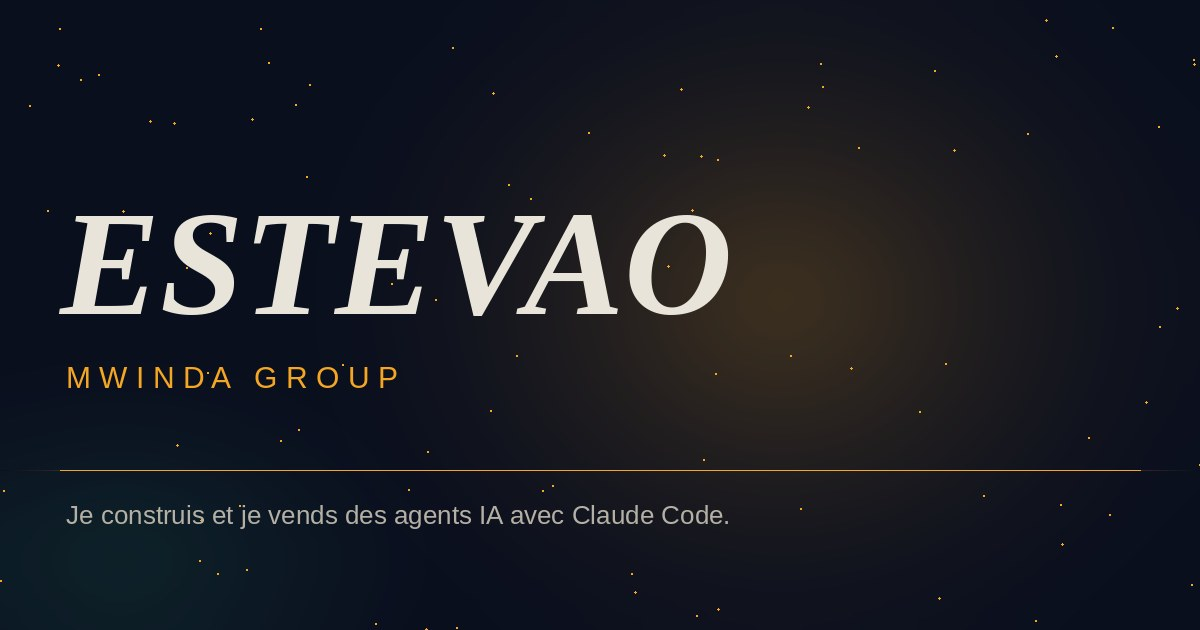
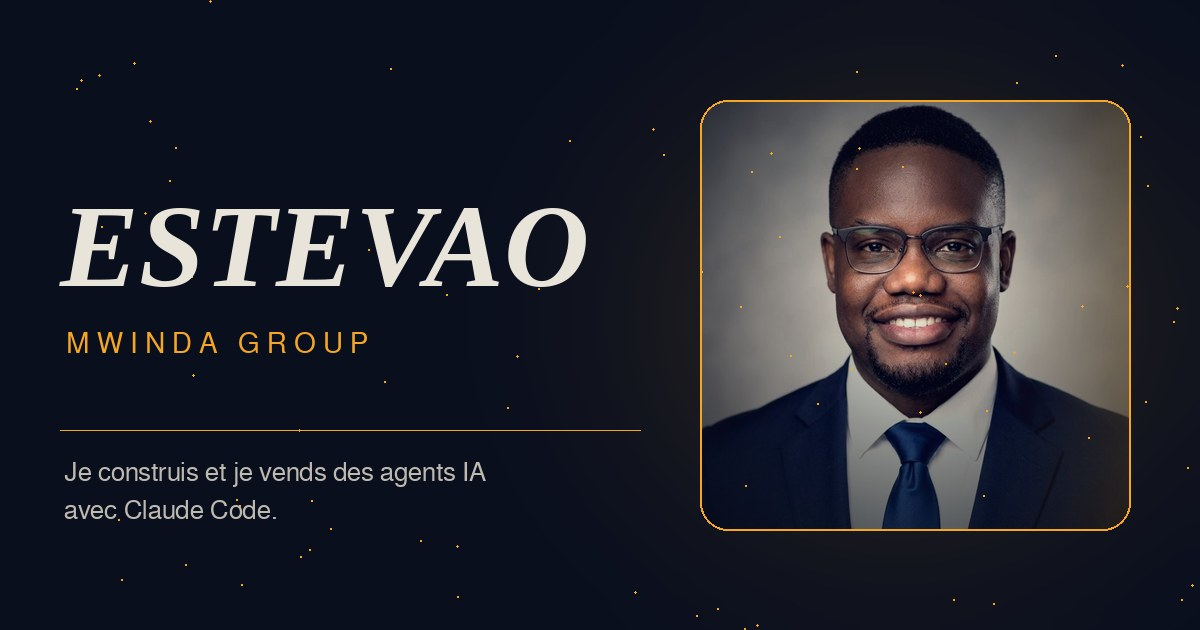
Animate Estevao's portrait as a 3D scroll-driven hero monolith
Grade the uploaded portrait cinematically (night shadows, amber rim,
vignette fading into the site background) and mount it in the hero as a
3D card: rotationY scrubbed by scroll, pointer tilt on desktop, amber
halo and moving sheen, parallax exit into the night. Regenerate the
Open Graph image with the portrait, and shadow the hero subtitle and
tagline for readability over the photo.

Claude-Session: https://claude.ai/code/session_01YRJMze4uArmtiQv4Vbvmec

Changed region(s): [[0.0308, 0.1508, 0.9558, 0.8444], [0.0617, 0.6635, 0.5242, 0.6937], [0.6167, 0.9952, 0.6475, 1.0]]

diff --git a/portfolio/index.html b/portfolio/index.html
@@ -82,11 +82,22 @@
     .hero-vignette{position:absolute;inset:0;background:radial-gradient(ellipse 90% 90% at 50% 50%, transparent 40%, rgba(4,7,15,.85) 100%);pointer-events:none}
     .hero-dust{position:absolute;inset:0;pointer-events:none}
 
+    /* Monolithe 3D — portrait qui tourne au scroll */
+    .hero-3d{position:absolute;inset:0;display:flex;align-items:center;justify-content:center;perspective:1300px;z-index:2}
+    .hero-spin{transform-style:preserve-3d;will-change:transform}
+    .hero-card{position:relative;width:clamp(280px,32vw,440px);aspect-ratio:1;border-radius:10px;overflow:hidden;transform-style:preserve-3d;box-shadow:0 60px 140px -40px rgba(0,0,0,.9),0 0 0 1px rgba(245,166,35,.22),0 0 90px -18px rgba(245,166,35,.35);opacity:0}
+    .hero-card img{width:100%;height:100%;object-fit:cover;display:block}
+    .hero-card .card-sheen{position:absolute;inset:0;background:linear-gradient(115deg,transparent 42%,rgba(245,166,35,.16) 50%,transparent 58%);mix-blend-mode:screen;pointer-events:none}
+    .hero-halo{position:absolute;width:min(72vw,760px);aspect-ratio:1;border-radius:50%;background:radial-gradient(circle,rgba(245,166,35,.16),transparent 62%);filter:blur(8px);pointer-events:none}
+    @media(max-width:700px){.hero-card{width:66vw}}
+    .reduced .hero-card{opacity:1}
+    @media(prefers-reduced-motion:reduce){.hero-card{opacity:1}}
+
     .hero-type{position:absolute;inset:0;display:flex;flex-direction:column;align-items:center;justify-content:center;pointer-events:none;z-index:3}
     .hero-name{font-family:var(--display);font-weight:900;font-size:clamp(4rem,16vw,15rem);line-height:.9;letter-spacing:.02em;display:flex}
     .hero-name span{opacity:0;transform:translateY(40%) rotateX(60deg);display:inline-block;text-shadow:0 0 60px rgba(245,166,35,.25)}
-    .hero-sub{margin-top:1.6rem;font-size:clamp(.65rem,1.4vw,.9rem);letter-spacing:.85em;text-transform:uppercase;color:var(--amber);opacity:0;text-indent:.85em}
-    .hero-tagline{margin-top:2.2rem;font-size:clamp(.95rem,2vw,1.3rem);color:var(--ink-dim);opacity:0;font-weight:300;max-width:34ch;text-align:center;line-height:1.6}
+    .hero-sub{margin-top:1.6rem;font-size:clamp(.65rem,1.4vw,.9rem);letter-spacing:.85em;text-transform:uppercase;color:var(--amber);opacity:0;text-indent:.85em;text-shadow:0 2px 26px rgba(4,7,15,.95),0 0 8px rgba(4,7,15,.7)}
+    .hero-tagline{margin-top:2.2rem;font-size:clamp(.95rem,2vw,1.3rem);color:var(--ink);opacity:0;font-weight:300;max-width:34ch;text-align:center;line-height:1.6;text-shadow:0 2px 26px rgba(4,7,15,.95),0 0 8px rgba(4,7,15,.7)}
     .hero-tagline em{color:var(--ink);font-style:normal;border-bottom:1px solid var(--amber-line)}
     .hero-scrollcue{position:absolute;bottom:2.2rem;left:50%;transform:translateX(-50%);z-index:3;display:flex;flex-direction:column;align-items:center;gap:.8rem;color:var(--ink-dim);font-size:.6rem;letter-spacing:.4em;text-transform:uppercase}
     .hero-scrollcue .line{width:1px;height:56px;background:linear-gradient(var(--amber),transparent);animation:cue 2.2s ease infinite}
@@ -223,6 +234,17 @@
       <div class="hero-fallback"></div>
       <canvas id="heroCanvas"></canvas>
       <canvas class="hero-dust" id="dustCanvas" aria-hidden="true"></canvas>
+
+      <div class="hero-3d" id="hero3d">
+        <div class="hero-halo"></div>
+        <div class="hero-spin" id="heroSpin">
+          <div class="hero-card" id="heroCard">
+            <img src="assets/estevao-graded.jpg" alt="Estevao, fondateur de Mwinda Group — portrait en lumière ambre" />
+            <div class="card-sheen"></div>
+          </div>
+        </div>
+      </div>
+
       <div class="hero-vignette"></div>
 
       <div class="hero-type">
@@ -620,11 +642,29 @@
       heroTl.fromTo('.hero-scrollcue',{opacity:1},{opacity:0,duration:.6},.8);
       heroTl.fromTo('.hero-type',{yPercent:0,opacity:1},{yPercent:-18,opacity:0,duration:2.6,ease:'power2.in'},7.4);
 
+      // Monolithe 3D : le portrait tourne avec le scroll puis recule dans la nuit
+      heroTl.fromTo('#heroSpin',{rotationY:-26,rotationX:2},{rotationY:26,rotationX:-2,ease:'none',duration:10},0);
+      heroTl.fromTo('#heroCard',{scale:1},{scale:.92,ease:'none',duration:10},0);
+      heroTl.fromTo('#hero3d',{opacity:1,z:0},{opacity:0,z:-260,duration:2.4,ease:'power2.in'},7.5);
+      heroTl.fromTo('.card-sheen',{xPercent:-70},{xPercent:70,ease:'none',duration:10},0);
+
       // Chargement : ESTEVAO se compose lettre par lettre, puis sous-titre et tagline
       gsap.set('#heroName span',{opacity:0,y:'40%',rotateX:60});
+      gsap.to('#heroCard',{opacity:1,duration:1.6,ease:'power2.out',delay:.7});
+      gsap.from('#heroCard',{y:60,scale:.9,duration:1.6,ease:'power3.out',delay:.7});
       gsap.to('#heroName span',{opacity:1,y:'0%',rotateX:0,stagger:.14,duration:1.3,ease:'power3.out',delay:1.15});
       gsap.to('#heroSub',{opacity:1,duration:1,delay:2.4});
       gsap.to('#heroTagline',{opacity:1,duration:1,delay:2.8});
+
+      // Inclinaison à la souris (desktop) — sur la carte, indépendante du spin scrollé
+      if(matchMedia('(pointer:fine)').matches){
+        const qx=gsap.quickTo('#heroCard','rotationX',{duration:.7,ease:'power2.out'});
+        const qy=gsap.quickTo('#heroCard','rotationY',{duration:.7,ease:'power2.out'});
+        document.getElementById('heroStage').addEventListener('pointermove',e=>{
+          qy(((e.clientX/innerWidth)-.5)*10);
+          qx(((e.clientY/innerHeight)-.5)*-8);
+        });
+      }
 
       // Manifesto : mots qui s'allument
       window.initManifestoTrigger = function(){

diff --git a/portfolio/assets/README.md b/portfolio/assets/README.md
@@ -1,5 +1,11 @@
 # Pipeline d'assets — Portfolio Estevao / Mwinda
 
+> **Portrait 3D actuel** : en attendant les clips, le hero anime la photo
+> d'Estevao (`estevao-graded.jpg`, étalonnée nuit/ambre) dans un monolithe 3D
+> qui tourne au scroll et s'incline à la souris. Une fois les 120 frames du
+> clip 1 intégrées, garder ou retirer le bloc `#hero3d` dans `index.html`
+> selon le rendu combiné.
+
 Le site (`portfolio/index.html`) fonctionne dès maintenant avec des placeholders
 élégants. Dès qu'un asset est déposé au bon endroit, il est détecté et intégré
 automatiquement (aucune modification de code nécessaire).
